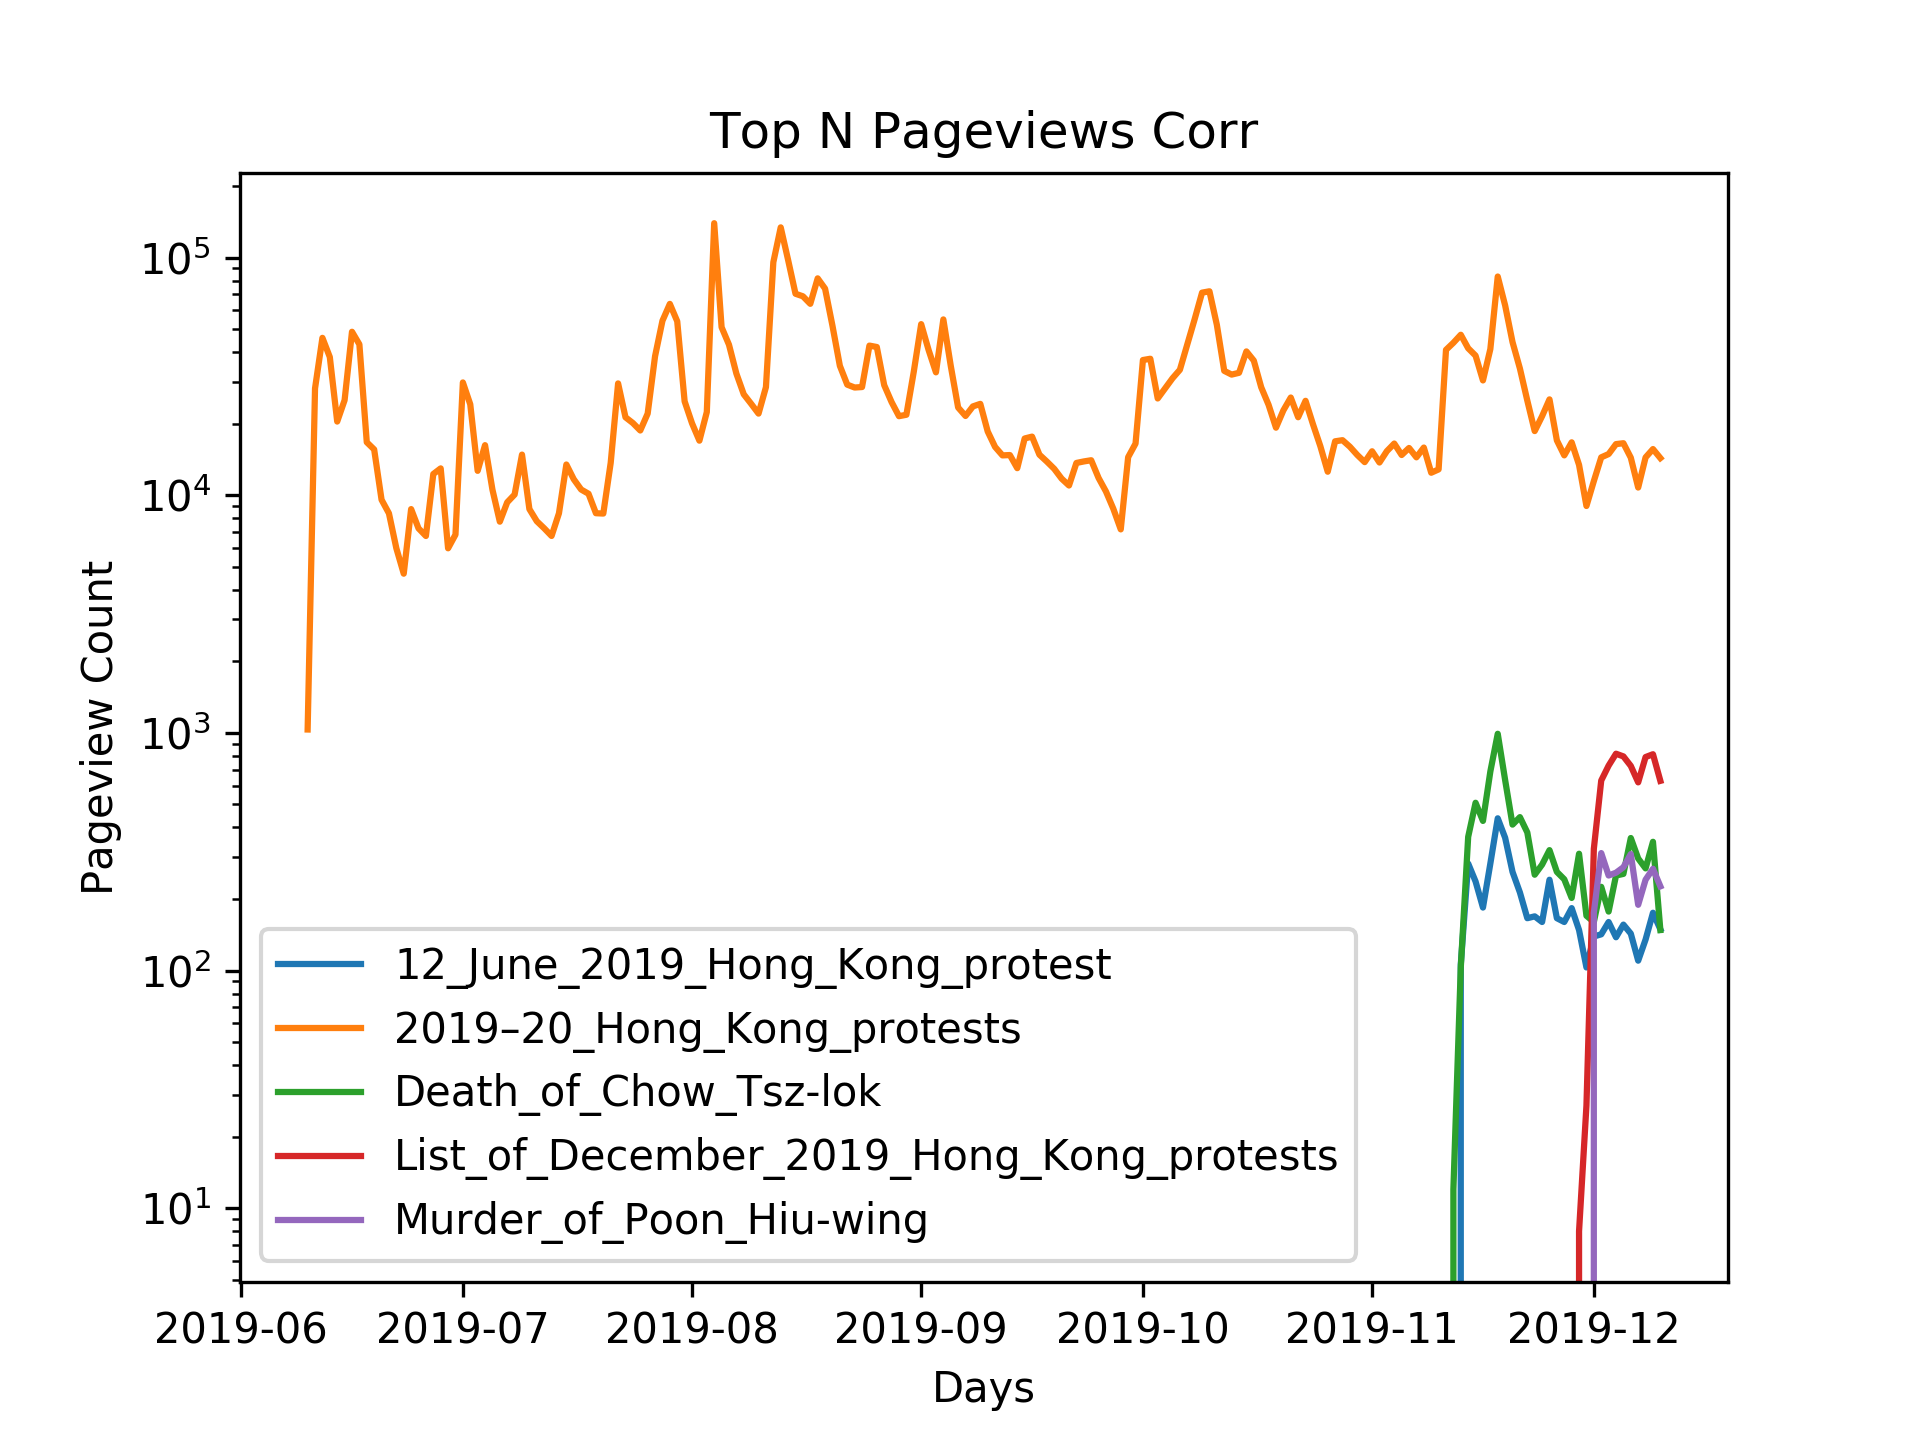
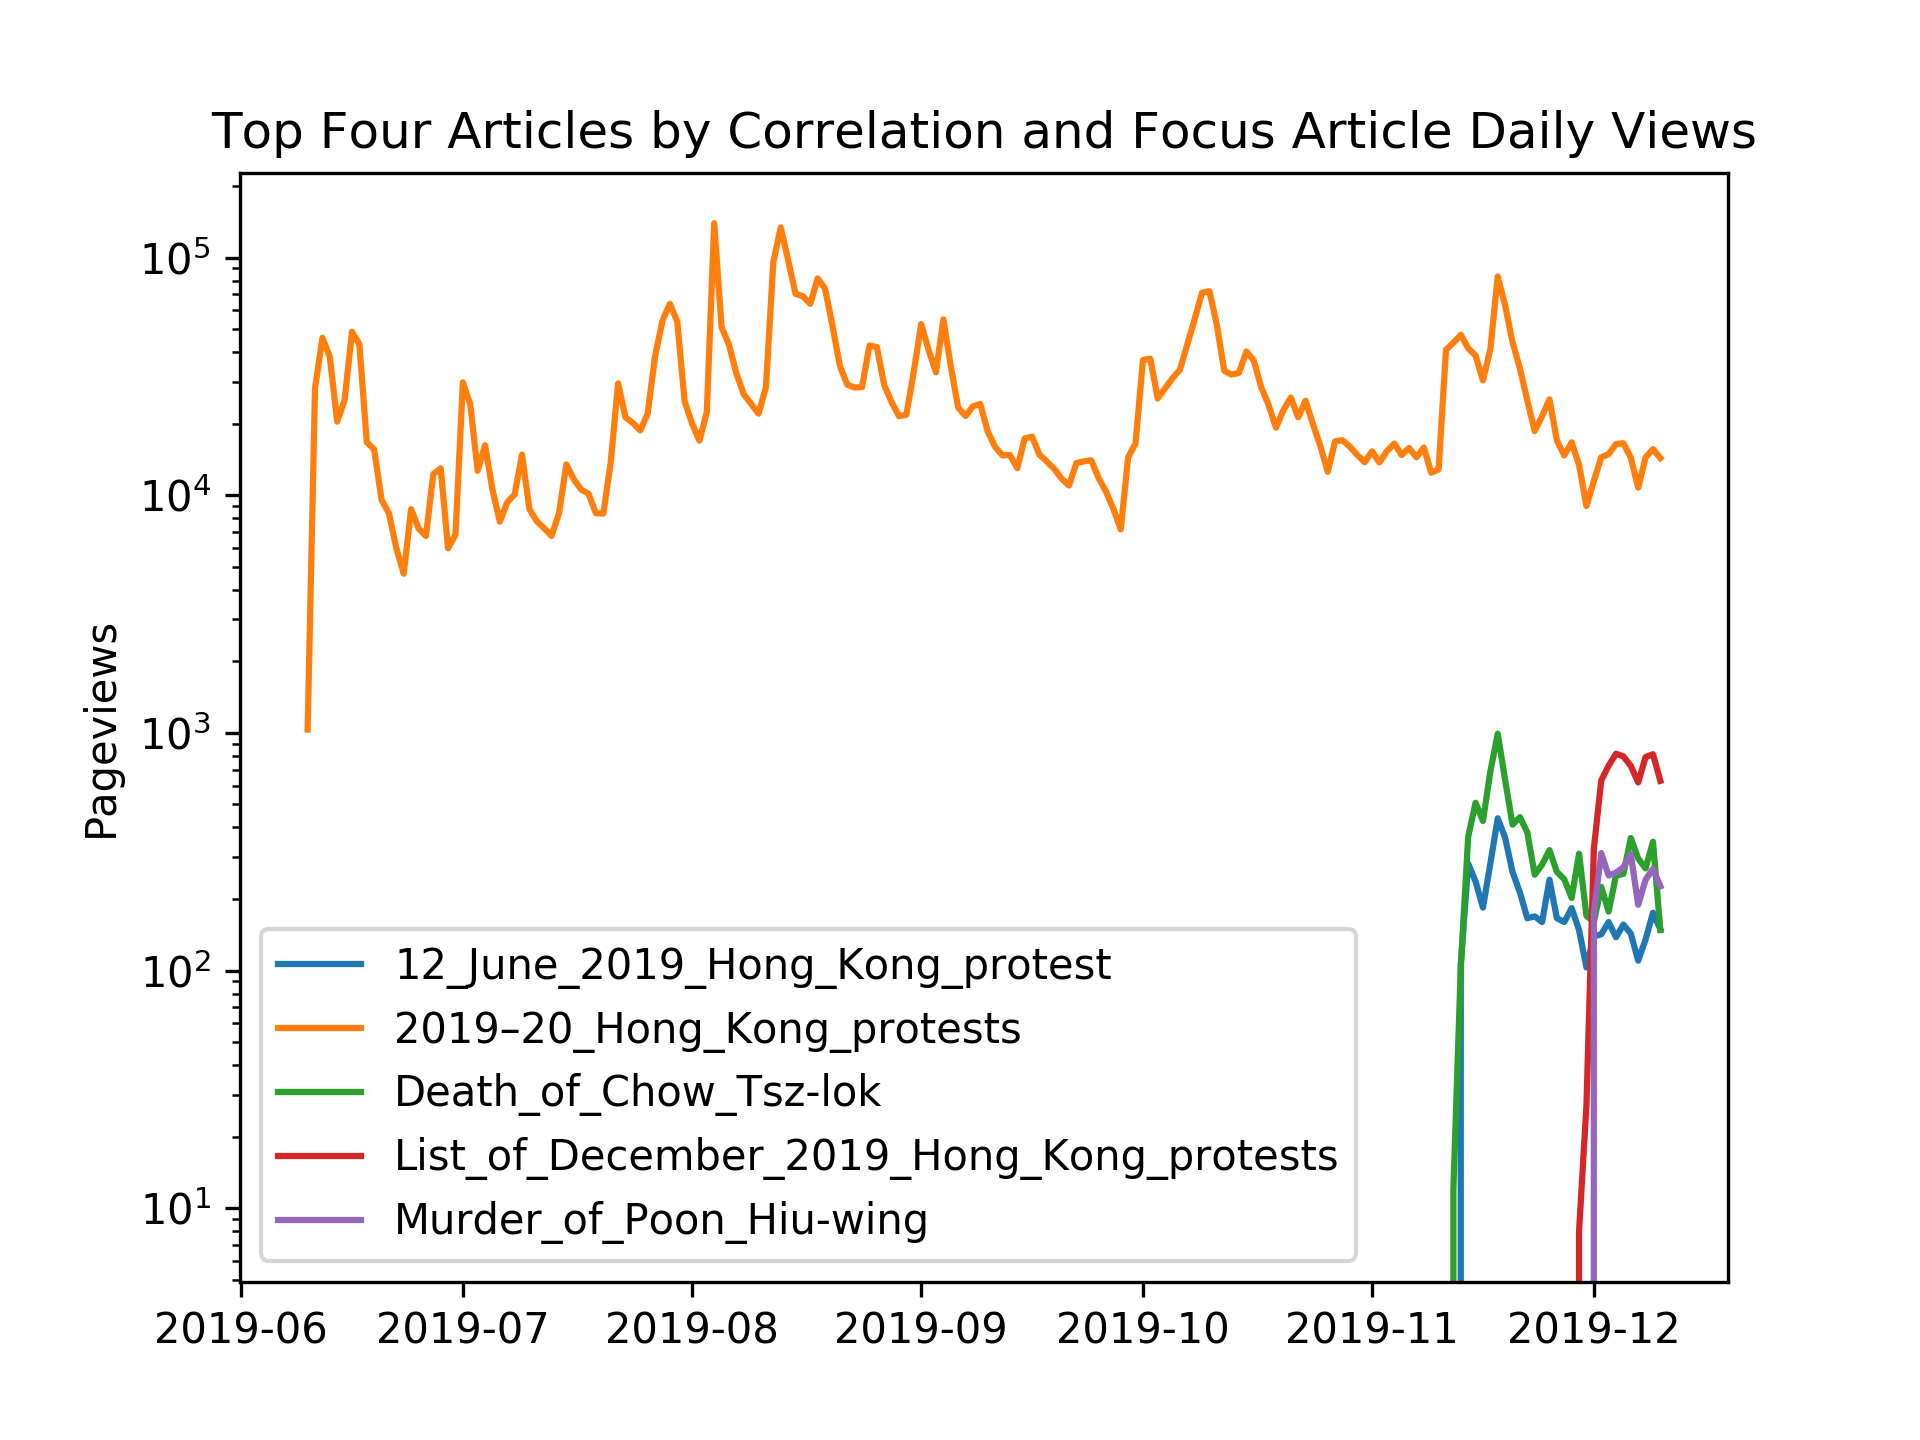
modify labels top pageview plot

Changed region(s): [[0.125, 0.0625, 0.9062, 0.125], [0.0312, 0.375, 0.0625, 0.625], [0.5, 0.9375, 0.5312, 0.9688]]

diff --git a/pageviews.py b/pageviews.py
@@ -109,9 +109,9 @@ def plotTopNPageviews(pageDict):
             allNumViews.append(numViews)
     for i in range(len(allDays)):
         plt.plot(allDays[i], allNumViews[i], label=keyNames[i])
-    plt.title("Top N Pageviews Corr")
-    plt.xlabel("Days")
-    plt.ylabel("Pageview Count")
+    plt.title("Top Four Articles by Correlation and Focus Article Daily Views")
+    # plt.xlabel("Days")
+    plt.ylabel("Pageviews")
     plt.yscale("log")
     plt.legend()
     plt.savefig(os.path.join("figures","TopNPageviewCorrSince2019.png"), dpi=300)
